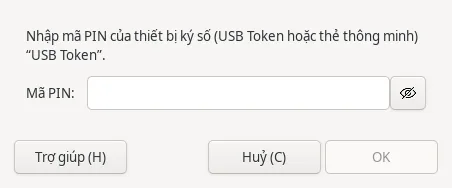
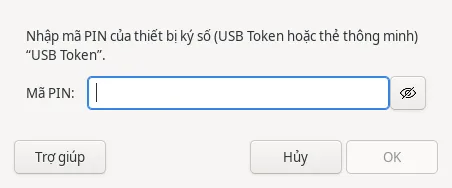
feat(website): sync the USB token guide wording and screenshots

diff --git a/website/office.hasontech.vn/huong-dan/ky-so-usb-token/index.html b/website/office.hasontech.vn/huong-dan/ky-so-usb-token/index.html
@@ -149,7 +149,7 @@
 <div class="note warn"><p><strong>Cẩn thận với mã PIN.</strong> Nhập sai mã PIN nhiều lần liên tiếp, token có thể tự khóa. Khi đó cần nhà cung cấp mở khóa.</p></div>
 
 <h2>2. Windows</h2>
-<p>Sau khi cài driver của nhà cung cấp, chứng thư số trên token tự xuất hiện trong kho chứng chỉ cá nhân của Windows. HST Office đọc trực tiếp kho này, không cần cấu hình thêm. Mã PIN do hộp thoại của driver token hỏi.</p>
+<p>Sau khi cài driver của nhà cung cấp, chứng thư số trên token tự xuất hiện trong kho chứng thư cá nhân của Windows. HST Office đọc trực tiếp kho này, không cần cấu hình thêm. Mã PIN do hộp thoại của driver token hỏi.</p>
 <p>Nếu không thấy chứng thư khi ký: rút và cắm lại token, mở phần mềm quản lý token của nhà cung cấp để đăng ký chứng thư vào Windows, rồi mở lại HST Office.</p>
 
 <h2>3. Linux (Ubuntu)</h2>
@@ -199,18 +199,18 @@
   <li>Hoàn tất nội dung và lưu tài liệu. Sửa tài liệu sau khi ký sẽ làm chữ ký mất hiệu lực.</li>
   <li>Trên thẻ <span class="menu">Tập tin</span>, bấm <span class="menu">Chữ ký số...</span> (hoặc menu <span class="menu">Tập tin → Chữ ký số → Chữ ký số...</span>).</li>
   <li>Bấm <span class="menu">Ký tài liệu...</span>. Nếu được hỏi, nhập mã PIN của token.</li>
-  <li>Trong hộp thoại <span class="menu">Lựa chọn chứng chỉ</span>, chọn dòng có tên của bạn ở cột <span class="menu">Cấp cho</span>, có thể ghi <span class="menu">Mô tả</span>, rồi bấm <span class="menu">Ký</span>.</li>
-  <li>Bấm <span class="menu">Đóng</span>. Thanh thông báo hiện “Tài liệu này đã được ký điện tử và chữ ký hợp lệ.”</li>
+  <li>Trong hộp thoại <span class="menu">Lựa chọn chứng thư</span>, chọn dòng có tên của bạn ở cột <span class="menu">Cấp cho</span>, có thể ghi <span class="menu">Mô tả</span>, rồi bấm <span class="menu">Ký</span>.</li>
+  <li>Bấm <span class="menu">Đóng</span>, rồi trả lời câu hỏi “Bạn có muốn ghi nhớ chữ ký đó cho mỗi lần lưu không?” (<span class="menu">Có</span> hoặc <span class="menu">Không</span>). Thanh thông báo hiện “Tài liệu này đã được ký điện tử và chữ ký hợp lệ.”</li>
 </ol>
 <p>Hình minh họa dùng chứng thư mẫu, chỉ phục vụ hướng dẫn.</p>
-<figure><picture><source type="image/webp" srcset="/huong-dan/images/usb-token-pin.webp?v=e103e7ec"><img decoding="async" src="/huong-dan/images/usb-token-pin.png?v=e103e7ec" alt="Hộp thoại Nhập mã PIN của thiết bị ký số USB Token với ô Mã PIN đang trống, các nút Trợ giúp, Huỷ và OK." loading="lazy" width="452" height="188"></picture><figcaption>Hộp thoại <span class="menu">Nhập mã PIN</span> của token. Mã PIN không hiển thị khi nhập.</figcaption></figure>
-<figure><picture><source type="image/webp" srcset="/huong-dan/images/usb-token-certificate.webp?v=f640d792"><img decoding="async" src="/huong-dan/images/usb-token-certificate.png?v=f640d792" alt="Hộp thoại Lựa chọn chứng chỉ, chứng thư nạp từ /home/nguoidung/.pki/nssdb; dòng Cấp cho CÔNG TY TNHH CÔNG NGHỆ HÀ SƠN, Cấp bởi VNPT-CA SHA-256, kiểu X.509, hết hạn 31/10/2029 đang được chọn; ô Mô tả và nút Ký." loading="lazy" width="858" height="590"></picture><figcaption>Chọn chứng thư trên token trong hộp thoại <span class="menu">Lựa chọn chứng chỉ</span>, rồi bấm <span class="menu">Ký</span>. Hình minh họa dùng chứng thư mẫu, chỉ phục vụ hướng dẫn.</figcaption></figure>
-<figure><picture><source type="image/webp" srcset="/huong-dan/images/usb-token-signed.webp?v=15858599"><img decoding="async" src="/huong-dan/images/usb-token-signed.png?v=15858599" alt="Văn bản bao-cao-nam.odt đã ký trong HST Writer, tiêu đề thẻ ghi Đã ký, thanh thông báo xanh: Tài liệu này đã được ký điện tử và chữ ký hợp lệ, nút Hiện chữ ký." loading="lazy" width="1000" height="626"></picture><figcaption>Tài liệu đã ký: thanh thông báo báo chữ ký hợp lệ.</figcaption></figure>
+<figure><picture><source type="image/webp" srcset="/huong-dan/images/usb-token-pin.webp?v=5a16cbe3"><img decoding="async" src="/huong-dan/images/usb-token-pin.png?v=5a16cbe3" alt="Hộp thoại Nhập mã PIN của thiết bị ký số USB Token với ô Mã PIN đang trống, các nút Trợ giúp, Hủy và OK." loading="lazy" width="452" height="188"></picture><figcaption>Hộp thoại <span class="menu">Nhập mã PIN</span> của token. Mã PIN không hiển thị khi nhập.</figcaption></figure>
+<figure><picture><source type="image/webp" srcset="/huong-dan/images/usb-token-certificate.webp?v=d29c4948"><img decoding="async" src="/huong-dan/images/usb-token-certificate.png?v=d29c4948" alt="Hộp thoại Lựa chọn chứng thư, chứng thư nạp từ /home/nguoidung/.pki/nssdb; dòng Cấp cho CÔNG TY TNHH CÔNG NGHỆ HÀ SƠN, Cấp bởi VNPT-CA SHA-256, kiểu X.509, hết hạn 31/10/2029 đang được chọn; ô Mô tả và nút Ký." loading="lazy" width="858" height="590"></picture><figcaption>Chọn chứng thư trên token trong hộp thoại <span class="menu">Lựa chọn chứng thư</span>, rồi bấm <span class="menu">Ký</span>. Hình minh họa dùng chứng thư mẫu, chỉ phục vụ hướng dẫn.</figcaption></figure>
+<figure><picture><source type="image/webp" srcset="/huong-dan/images/usb-token-signed.webp?v=8bc0c116"><img decoding="async" src="/huong-dan/images/usb-token-signed.png?v=8bc0c116" alt="Văn bản bao-cao-nam.odt đã ký trong HST Writer, tiêu đề thẻ ghi Đã ký, thanh thông báo xanh: Tài liệu này đã được ký điện tử và chữ ký hợp lệ, nút Hiện chữ ký." loading="lazy" width="1000" height="626"></picture><figcaption>Tài liệu đã ký: thanh thông báo báo chữ ký hợp lệ.</figcaption></figure>
 
 <h2>6. Xuất PDF có chữ ký số</h2>
 <ol>
   <li>Chọn <span class="menu">Tập tin → Xuất dạng PDF...</span>, mở thẻ <span class="menu">Chữ ký số</span>.</li>
-  <li>Bấm <span class="menu">Chọn...</span> và chọn chứng thư trên token. Để trống ô <span class="menu">Mật khẩu chứng chỉ</span>: mã PIN được hỏi riêng.</li>
+  <li>Bấm <span class="menu">Chọn...</span> và chọn chứng thư trên token. Để trống ô <span class="menu">Mật khẩu chứng thư</span>: mã PIN được hỏi riêng.</li>
   <li>Điền <span class="menu">Vị trí</span>, <span class="menu">Thông tin liên hệ</span>, <span class="menu">Lý do</span> nếu cần; chọn máy chủ cấp dấu thời gian ở <span class="menu">Tổ chức cấp dấu thời gian</span> (xem mục 8).</li>
   <li>Bấm <span class="menu">Xuất</span>, chọn nơi lưu và nhập mã PIN khi được hỏi.</li>
 </ol>
@@ -228,7 +228,7 @@
 <p>Mở tài liệu đã ký: biểu tượng chữ ký ở thanh trạng thái và thanh thông báo cho biết chữ ký còn hợp lệ không. Chọn <span class="menu">Tập tin → Chữ ký số → Chữ ký số...</span> để xem người ký và thời điểm ký.</p>
 <div class="table-wrap"><table><caption>Sự cố thường gặp</caption><thead><tr><th scope="col">Hiện tượng</th><th scope="col">Cách xử lý</th></tr></thead><tbody>
 <tr><td>Danh sách chứng thư trống</td><td>Kiểm tra token đã cắm và driver đã cài; trên Linux/macOS, đăng ký thư viện token như mục 3 hoặc 4; đóng hết cửa sổ HST Office rồi mở lại.</td></tr>
-<tr><td>Hỏi mã PIN nhiều lần</td><td>Mã PIN sai. Bấm <span class="menu">Huỷ</span> nếu không chắc chắn, tránh để token bị khóa.</td></tr>
+<tr><td>Hỏi mã PIN nhiều lần</td><td>Mã PIN sai. Bấm <span class="menu">Hủy</span> nếu không chắc chắn, tránh để token bị khóa.</td></tr>
 <tr><td>Chữ ký hợp lệ nhưng không thẩm tra được chứng thư</td><td>Máy chưa tin cậy chứng thư gốc của nhà cung cấp. Cài chứng thư gốc theo hướng dẫn của nhà cung cấp.</td></tr>
 <tr><td>Chữ ký báo không hợp lệ</td><td>Tài liệu đã bị sửa sau khi ký. Ký lại bản cuối cùng.</td></tr>
 </tbody></table></div>
